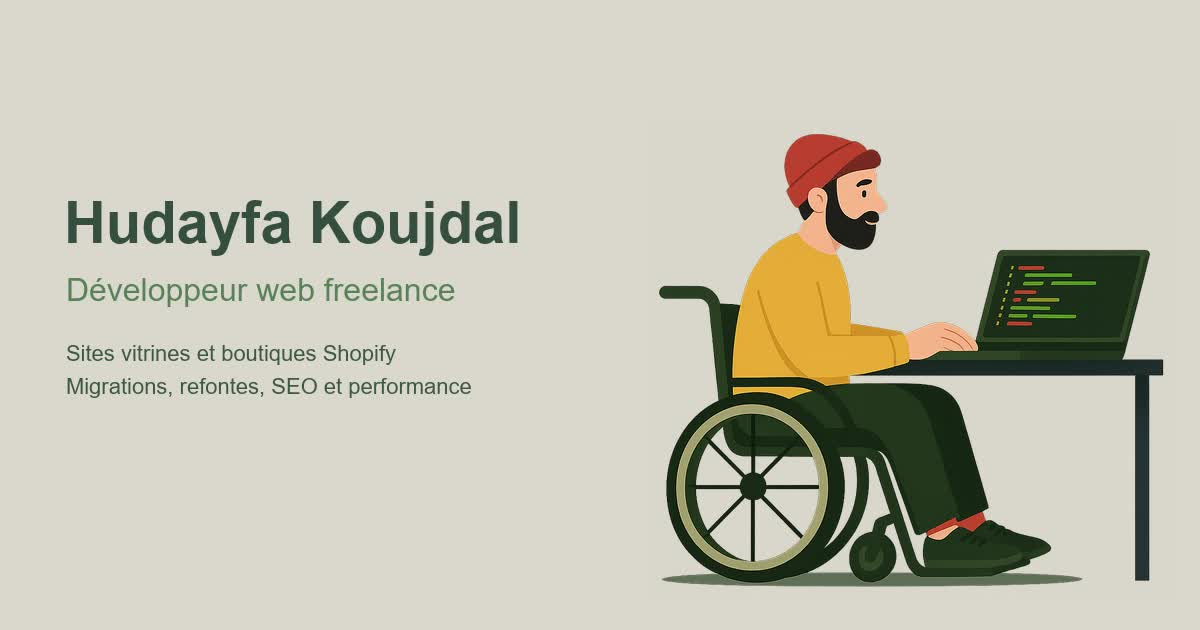
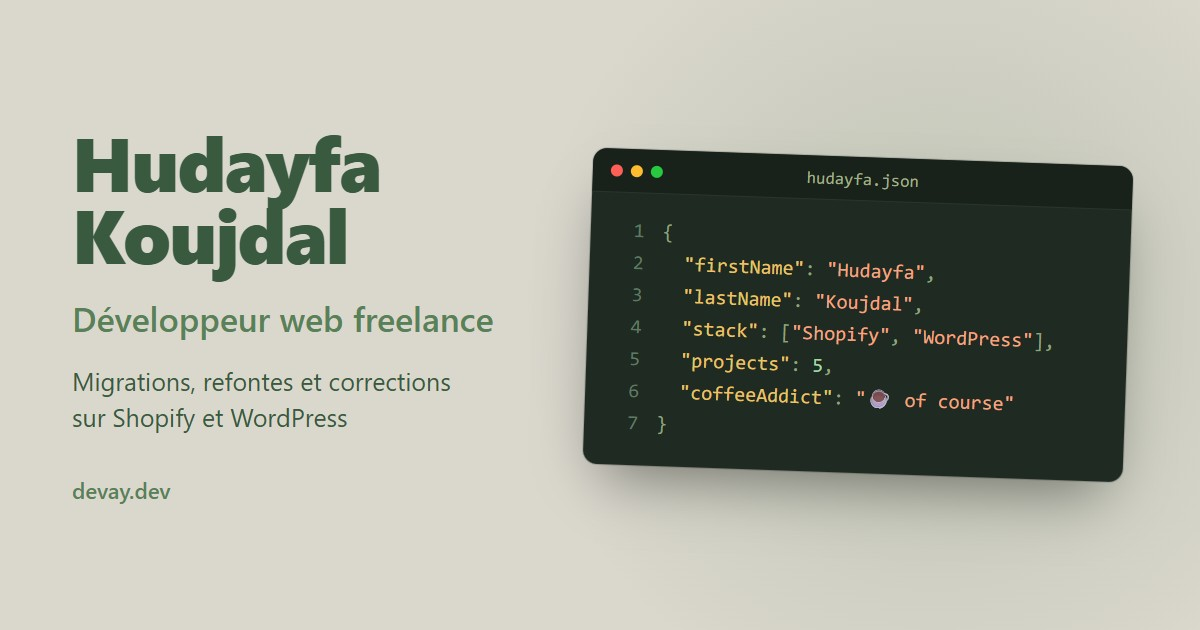
feat: update portfolio content, enhance SEO metadata, and add Open Graph image generation

Changed region(s): [[0.4625, 0.2111, 0.9867, 0.9349], [0.0308, 0.2111, 0.4317, 0.6937], [0.0617, 0.754, 0.1542, 0.8143]]

diff --git a/index.html b/index.html
@@ -4,10 +4,10 @@
     <meta charset="UTF-8" />
     <link rel="icon" href="/favicon.ico" />
     <meta name="viewport" content="width=device-width, initial-scale=1.0" />
-    <title>Hudayfa Koujdal – Développeur web freelance, sites vitrines et Shopify</title>
+    <title>Hudayfa Koujdal – Développeur web freelance Shopify</title>
     <meta
       name="description"
-      content="Développeur web freelance. Je crée des sites vitrines pour les artisans et les petites entreprises, et je monte, migre ou refonds des boutiques Shopify."
+      content="Développeur web freelance : migrations, refontes et corrections sur Shopify et WordPress. Cinq clients depuis novembre 2025."
     />
     <meta name="author" content="Hudayfa Koujdal" />
     <meta name="robots" content="index, follow, max-image-preview:large, max-snippet:-1" />
@@ -18,32 +18,32 @@
     <meta property="og:type" content="website" />
     <meta property="og:site_name" content="Hudayfa Koujdal" />
     <meta property="og:url" content="https://devay.dev/" />
-    <meta property="og:title" content="Hudayfa Koujdal – Développeur web freelance, sites vitrines et Shopify" />
+    <meta property="og:title" content="Hudayfa Koujdal – Développeur web freelance Shopify" />
     <meta
       property="og:description"
-      content="Sites vitrines pour artisans et petites entreprises, boutiques Shopify, migrations WooCommerce et refontes de thèmes. Cinq clients depuis novembre 2025."
+      content="Migrations, refontes et corrections sur Shopify et WordPress. Cinq clients depuis novembre 2025."
     />
     <meta property="og:image" content="https://devay.dev/og-image.jpg" />
     <meta property="og:image:width" content="1200" />
     <meta property="og:image:height" content="630" />
     <meta
       property="og:image:alt"
-      content="Hudayfa Koujdal, développeur web freelance – sites vitrines, boutiques Shopify, migrations et refontes"
+      content="Hudayfa Koujdal, développeur web freelance – Shopify et WordPress"
     />
     <meta property="og:locale" content="fr_FR" />
     <meta property="og:locale:alternate" content="en_US" />
 
     <!-- Twitter Card -->
     <meta name="twitter:card" content="summary_large_image" />
-    <meta name="twitter:title" content="Hudayfa Koujdal – Développeur web freelance, sites vitrines et Shopify" />
+    <meta name="twitter:title" content="Hudayfa Koujdal – Développeur web freelance Shopify" />
     <meta
       name="twitter:description"
-      content="Sites vitrines pour artisans et petites entreprises, boutiques Shopify, migrations WooCommerce et refontes de thèmes. Cinq clients depuis novembre 2025."
+      content="Migrations, refontes et corrections sur Shopify et WordPress. Cinq clients depuis novembre 2025."
     />
     <meta name="twitter:image" content="https://devay.dev/og-image.jpg" />
     <meta
       name="twitter:image:alt"
-      content="Hudayfa Koujdal, développeur web freelance – sites vitrines, boutiques Shopify, migrations et refontes"
+      content="Hudayfa Koujdal, développeur web freelance – Shopify et WordPress"
     />
 
     <!-- Données structurées -->
@@ -59,18 +59,18 @@
             "image": "https://devay.dev/og-image.jpg",
             "email": "mailto:hudayfa.k.pro@gmail.com",
             "jobTitle": "Développeur web freelance",
-            "description": "Hudayfa Koujdal est un développeur web freelance basé en France. Il crée des sites vitrines pour les artisans et les petites entreprises, et développe, migre et refond des boutiques Shopify.",
+            "description": "Hudayfa Koujdal est un développeur web freelance. Il réalise des migrations, des refontes et des corrections sur Shopify et WordPress.",
             "knowsAbout": [
-              "Création de site vitrine",
               "Shopify",
               "Liquid",
+              "JavaScript",
+              "Tailwind CSS",
+              "WordPress",
+              "WooCommerce",
               "Migration WooCommerce vers Shopify",
               "WordPress headless",
-              "WooCommerce",
-              "SEO technique",
-              "Performance web",
-              "Vue.js",
-              "JavaScript"
+              "SEO et performance",
+              "Vue.js"
             ],
             "knowsLanguage": ["fr", "en"],
             "alumniOf": {
@@ -91,18 +91,12 @@
             "founder": { "@id": "https://devay.dev/#hudayfa" },
             "provider": { "@id": "https://devay.dev/#hudayfa" },
             "email": "mailto:hudayfa.k.pro@gmail.com",
-            "priceRange": "€€",
-            "areaServed": [
-              { "@type": "Country", "name": "France" },
-              { "@type": "Country", "name": "Maroc" }
-            ],
             "availableLanguage": ["fr", "en"],
             "serviceType": [
-              "Création de site vitrine",
-              "Création de boutique Shopify",
               "Migration WooCommerce vers Shopify",
-              "Développement et refonte de thèmes Shopify",
-              "Optimisation SEO et performance web"
+              "Développement de thèmes Shopify en Liquid",
+              "Corrections Shopify",
+              "Refonte WordPress headless"
             ],
             "sameAs": [
               "https://github.com/hdif004",
@@ -113,7 +107,7 @@
             "@type": "WebSite",
             "@id": "https://devay.dev/#website",
             "url": "https://devay.dev/",
-            "name": "Hudayfa Koujdal – Développeur web freelance, sites vitrines et Shopify",
+            "name": "Hudayfa Koujdal – Développeur web freelance Shopify",
             "inLanguage": "fr-FR",
             "publisher": { "@id": "https://devay.dev/#hudayfa" }
           }
@@ -133,11 +127,9 @@
     <div id="app"></div>
     <noscript>
       <div style="max-width: 46rem; margin: 3rem auto; padding: 0 1.5rem; font-family: system-ui, sans-serif; line-height: 1.6">
-        <h1>Hudayfa Koujdal – Développeur web freelance</h1>
+        <p style="font-size: 1.5rem; font-weight: 700">Hudayfa Koujdal – Développeur web freelance</p>
         <p>
-          Hudayfa Koujdal est un développeur web freelance basé en France. Il crée des sites
-          vitrines pour les artisans et les petites entreprises, et développe, migre et refond des
-          boutiques Shopify.
+          Hudayfa Koujdal est un développeur web freelance. Il réalise des migrations, des refontes et des corrections sur Shopify et WordPress.
         </p>
         <p>
           Ce portfolio nécessite JavaScript pour l'affichage complet. Vous pouvez me contacter

diff --git a/scripts/og-image.html b/scripts/og-image.html
@@ -1,0 +1,159 @@
+<!doctype html>
+<html lang="fr">
+  <head>
+    <meta charset="utf-8" />
+    <title>OG image</title>
+    <style>
+      * {
+        box-sizing: border-box;
+        margin: 0;
+      }
+
+      body {
+        width: 1200px;
+        height: 630px;
+        overflow: hidden;
+        font-family: 'Segoe UI', system-ui, sans-serif;
+        color: #3a5a40;
+        background:
+          radial-gradient(circle at 78% 50%, rgb(88 129 87 / 0.22), transparent 42%),
+          #dad7cd;
+      }
+
+      .layout {
+        display: flex;
+        align-items: center;
+        justify-content: space-between;
+        height: 100%;
+        padding: 0 72px;
+      }
+
+      .name {
+        font-size: 76px;
+        font-weight: 800;
+        line-height: 0.95;
+        letter-spacing: -1.5px;
+      }
+
+      .role {
+        margin-top: 26px;
+        font-size: 34px;
+        font-weight: 600;
+        color: #588157;
+      }
+
+      .work {
+        margin-top: 22px;
+        font-size: 25px;
+        line-height: 1.45;
+      }
+
+      .domain {
+        margin-top: 40px;
+        font-size: 22px;
+        font-weight: 600;
+        color: #588157;
+      }
+
+      .window {
+        width: 540px;
+        overflow: hidden;
+        border-radius: 14px;
+        background: #1f2b22;
+        box-shadow:
+          0 30px 60px -20px rgb(0 0 0 / 0.45),
+          0 0 0 1px rgb(0 0 0 / 0.15);
+        transform: rotate(2deg);
+      }
+
+      .bar {
+        display: flex;
+        align-items: center;
+        height: 44px;
+        padding: 0 18px;
+        border-bottom: 1px solid rgb(255 255 255 / 0.08);
+        background: #18221b;
+      }
+
+      .dots {
+        display: flex;
+        gap: 8px;
+      }
+
+      .dots span {
+        width: 12px;
+        height: 12px;
+        border-radius: 50%;
+      }
+
+      .file {
+        flex: 1;
+        margin-right: 52px;
+        text-align: center;
+        font-family: Consolas, monospace;
+        font-size: 17px;
+        color: #a3b18a;
+      }
+
+      pre {
+        padding: 22px 26px 26px;
+        font-family: Consolas, monospace;
+        font-size: 20px;
+        line-height: 1.6;
+        color: #dad7cd;
+      }
+
+      .n {
+        display: inline-block;
+        width: 28px;
+        margin-right: 18px;
+        text-align: right;
+        color: #5f7a63;
+      }
+
+      .p {
+        color: #8fa37f;
+      }
+
+      .k {
+        color: #e9c46a;
+      }
+
+      .s {
+        color: #f4a582;
+      }
+
+      .d {
+        color: #a3d9a5;
+      }
+    </style>
+  </head>
+  <body>
+    <main class="layout">
+      <div>
+        <p class="name">Hudayfa<br />Koujdal</p>
+        <p class="role">Développeur web freelance</p>
+        <p class="work">Migrations, refontes et corrections<br />sur Shopify et WordPress</p>
+        <p class="domain">devay.dev</p>
+      </div>
+
+      <div class="window">
+        <div class="bar">
+          <span class="dots">
+            <span style="background: #ff5f57"></span>
+            <span style="background: #febc2e"></span>
+            <span style="background: #28c840"></span>
+          </span>
+          <span class="file">hudayfa.json</span>
+        </div>
+        <pre><span class="n">1</span><span class="p">{</span>
+<span class="n">2</span>  <span class="k">"firstName"</span><span class="p">: </span><span class="s">"Hudayfa"</span><span class="p">,</span>
+<span class="n">3</span>  <span class="k">"lastName"</span><span class="p">: </span><span class="s">"Koujdal"</span><span class="p">,</span>
+<span class="n">4</span>  <span class="k">"stack"</span><span class="p">: [</span><span class="s">"Shopify"</span><span class="p">, </span><span class="s">"WordPress"</span><span class="p">],</span>
+<span class="n">5</span>  <span class="k">"projects"</span><span class="p">: </span><span class="d">5</span><span class="p">,</span>
+<span class="n">6</span>  <span class="k">"coffeeAddict"</span><span class="p">: </span><span class="s">"☕ of course"</span>
+<span class="n">7</span><span class="p">}</span></pre>
+      </div>
+    </main>
+  </body>
+</html>
